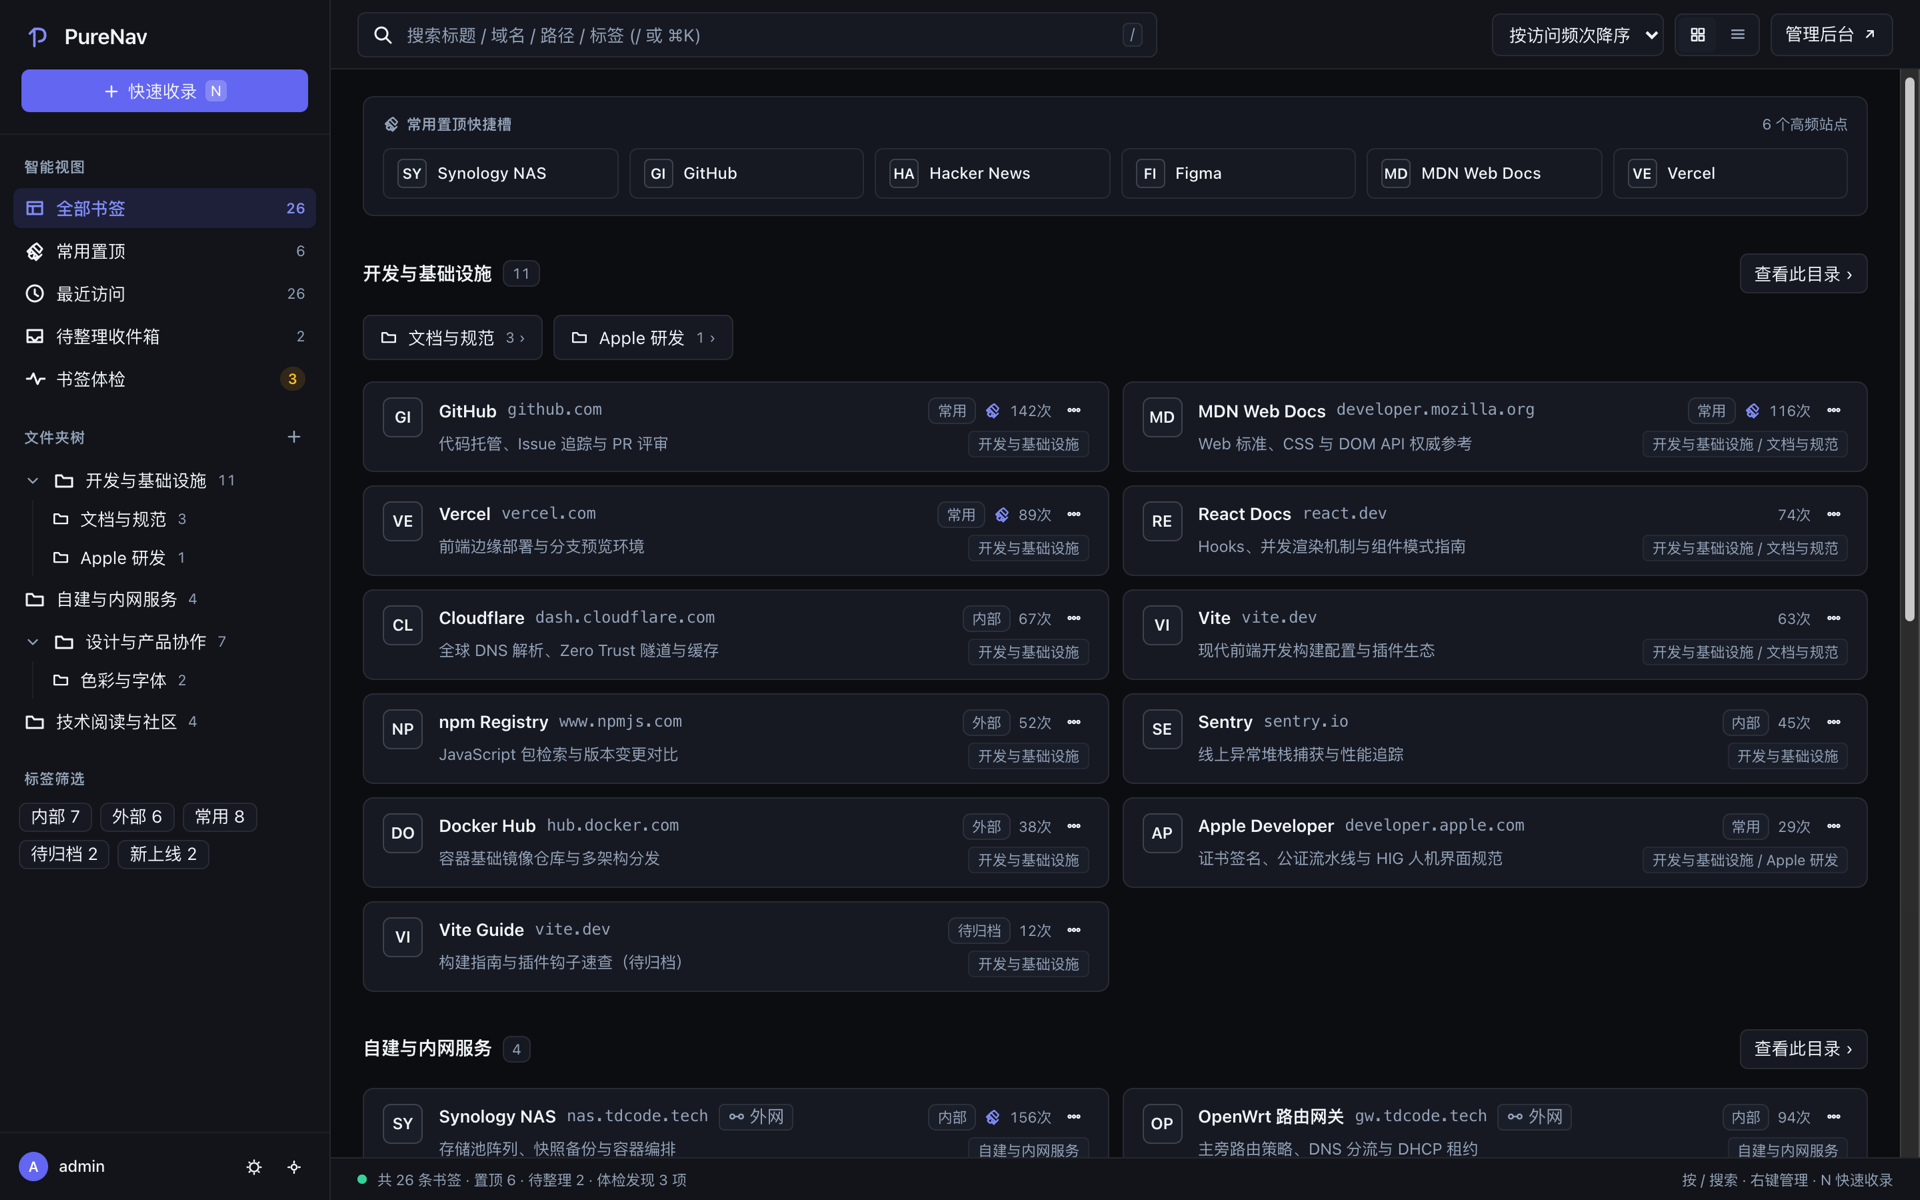
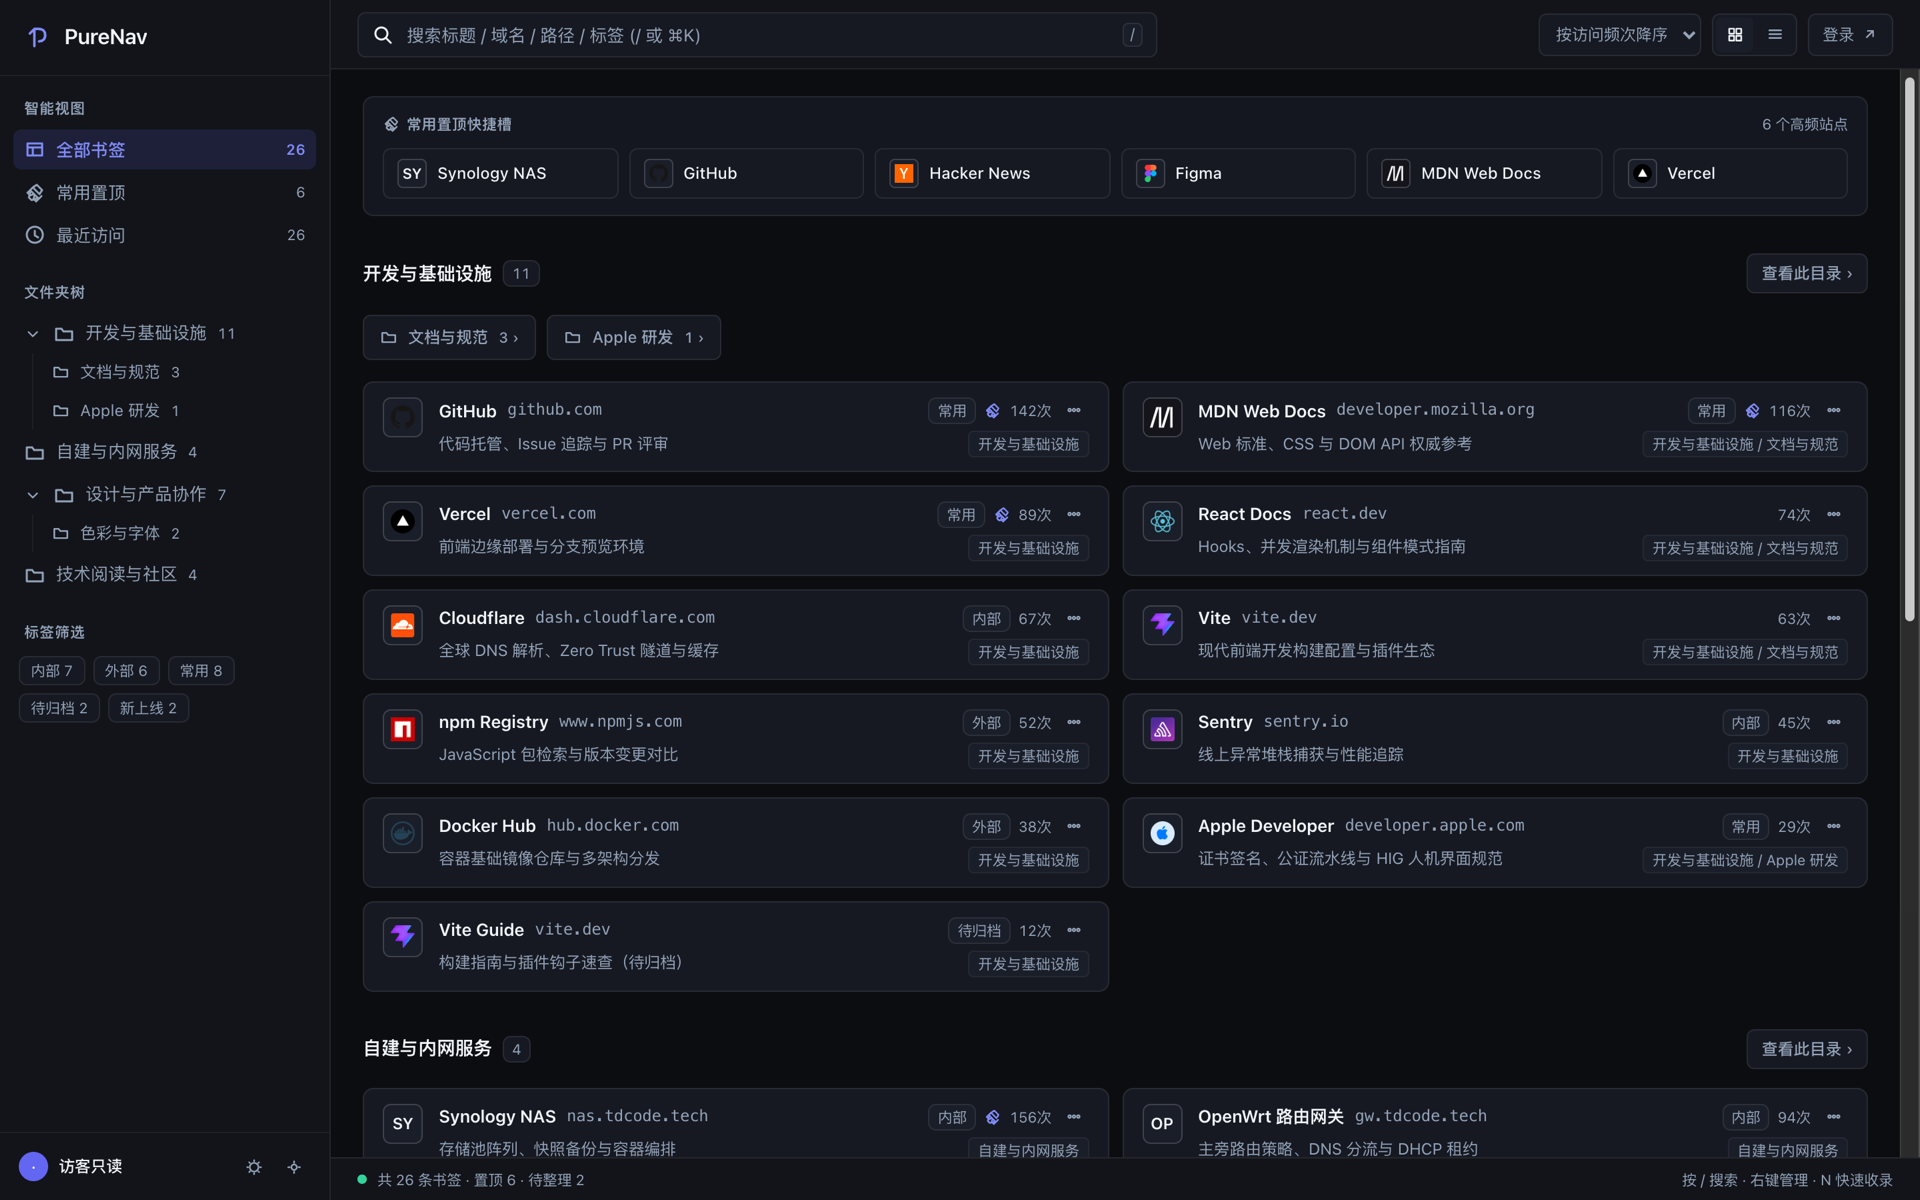
fix(web): 前台工作台书签卡片与置顶栏恢复真实站点图标渲染
- NavPage.tsx 重写时将置顶栏(.nx-mono)与书签卡片(.nx-mono-lg)写死为纯文字微章 monogram()，
  现封装 BookmarkIcon 组件接入 primaryIconSrc / fallbackIconSrc / useIconImage 图标管线，
  支持 auto(同源 Favicon 代理 + 站点直连回退)、url、iconify、asset 四种图标并在加载前/失败时
  回退 monogram(title) 文字微章；
- 修复 .nx-mono/.nx-mono-lg 图片未加载态隐藏样式：不在此类小图标上叠加 loading="lazy"，
  避免 Chromium 因未加载态 opacity:0 跳过视口外图片懒加载；
- 同步将 scripts/seed-demo.ts 演示库默认 icon_type 从 'text' 改为 'auto'。

diff --git a/apps/web/src/pages/NavPage.tsx b/apps/web/src/pages/NavPage.tsx
@@ -2,6 +2,9 @@ import { memo, useCallback, useEffect, useMemo, useRef, useState } from 'react';
 import { api, type DoctorReportResponse } from '../api';
 import type { PublicConfig, PublicGroup, PublicItem } from '../types';
 import { probeLanReachable, readLanChoice, resolveTarget, writeLanChoice } from '../lib/lan';
+import { getItemPalette } from '../lib/color';
+import { fallbackIconSrc, primaryIconSrc } from '../lib/iconUrl';
+import { useIconImage } from '../lib/iconImage';
 import { BrandMark } from '../components/BrandMark';
 import { applyTheme, readThemeOverride, resolveTheme, writeThemeOverride, type ThemeMode } from '../lib/theme';
 import '../nav-workspace.css';
@@ -234,6 +237,56 @@ function sortItems(list: FlatItem[], sortBy: SortBy, visits: Map<string, number>
 
 /* ------------------------------------------------------------------ card */
 
+const BookmarkIcon = memo(function BookmarkIcon({
+  item,
+  size = 'lg',
+}: {
+  item: PublicItem;
+  size?: 'sm' | 'lg';
+}) {
+  const palette = useMemo(() => getItemPalette(item.url, item.title), [item.url, item.title]);
+  const primary = useMemo(() => primaryIconSrc(item.icon, item.url, palette.color), [item.icon, item.url, palette.color]);
+  const [src, setSrc] = useState(primary);
+  const { ref: imgRef, loaded, broken, variant, onLoad, setBroken } = useIconImage(src);
+
+  useEffect(() => {
+    setSrc(primary);
+    setBroken(false);
+  }, [primary, setBroken]);
+
+  const handleError = () => {
+    const fallback = fallbackIconSrc(item.icon, item.url);
+    if (fallback && src !== fallback) {
+      setSrc(fallback);
+      return;
+    }
+    setBroken(true);
+  };
+
+  const hasImage = Boolean(src && loaded && !broken);
+
+  return (
+    <span
+      className={size === 'sm' ? 'nx-mono' : 'nx-mono-lg'}
+      data-has-image={hasImage ? 'true' : 'false'}
+      data-variant={variant}
+    >
+      {!hasImage && <span>{monogram(item.title)}</span>}
+      {src && !broken && (
+        <img
+          ref={imgRef}
+          src={src}
+          alt=""
+          decoding="async"
+          data-loaded={loaded}
+          onLoad={onLoad}
+          onError={handleError}
+        />
+      )}
+    </span>
+  );
+});
+
 const ItemCard = memo(function ItemCard({
   flat,
   visits,
@@ -280,7 +333,7 @@ const ItemCard = memo(function ItemCard({
         if (event.key === 'Enter') onOpen(flat);
       }}
     >
-      <span className="nx-mono-lg">{monogram(item.title)}</span>
+      <BookmarkIcon item={item} size="lg" />
       <div className="nx-card-body">
         <div className="nx-row1">
           <div className="nx-title-wrap">
@@ -1529,7 +1582,7 @@ export function NavPage({ authenticated, onAdmin, onLogin }: Props) {
                     title={`${flat.item.title} · ${flat.item.description ?? flat.item.url}`}
                     onClick={() => openItem(flat)}
                   >
-                    <span className="nx-mono">{monogram(flat.item.title)}</span>
+                    <BookmarkIcon item={flat.item} size="sm" />
                     <span className="nx-dock-name">{flat.item.title}</span>
                   </button>
                 ))}

diff --git a/apps/web/src/nav-workspace.css b/apps/web/src/nav-workspace.css
@@ -789,6 +789,26 @@ body.pn-app-locked {
   place-items: center;
   flex: none;
   letter-spacing: -0.2px;
+  overflow: hidden;
+  position: relative;
+}
+
+.nx-mono img {
+  width: 14px;
+  height: 14px;
+  object-fit: contain;
+  display: block;
+}
+
+.nx-mono img:not([data-loaded='true']) {
+  opacity: 0;
+  position: absolute;
+}
+
+.nx-mono[data-variant='full'] img {
+  width: 100%;
+  height: 100%;
+  object-fit: cover;
 }
 
 .nx-subfolders {
@@ -1071,12 +1091,25 @@ body.pn-app-locked {
   flex: none;
   margin-top: 1px;
   overflow: hidden;
+  position: relative;
 }
 
 .nx-mono-lg img {
   width: 18px;
   height: 18px;
   object-fit: contain;
+  display: block;
+}
+
+.nx-mono-lg img:not([data-loaded='true']) {
+  opacity: 0;
+  position: absolute;
+}
+
+.nx-mono-lg[data-variant='full'] img {
+  width: 100%;
+  height: 100%;
+  object-fit: cover;
 }
 
 .nx-card-body {

diff --git a/scripts/seed-demo.ts b/scripts/seed-demo.ts
@@ -130,7 +130,7 @@ items.forEach((it, i) => {
     it.url,
     it.lanUrl ?? null,
     it.desc ?? null,
-    'text',
+    'auto',
     null,
     null,
     1,
